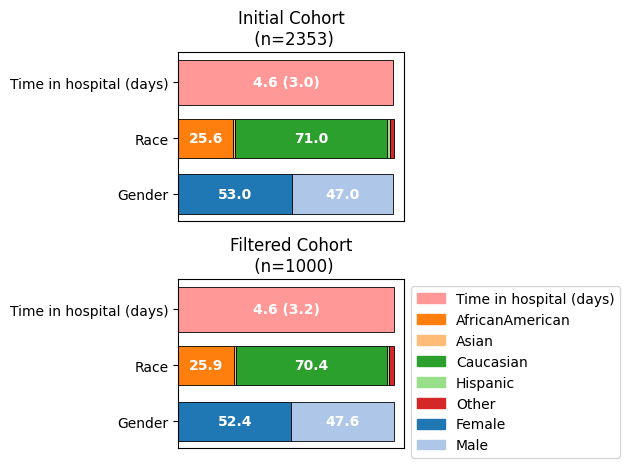
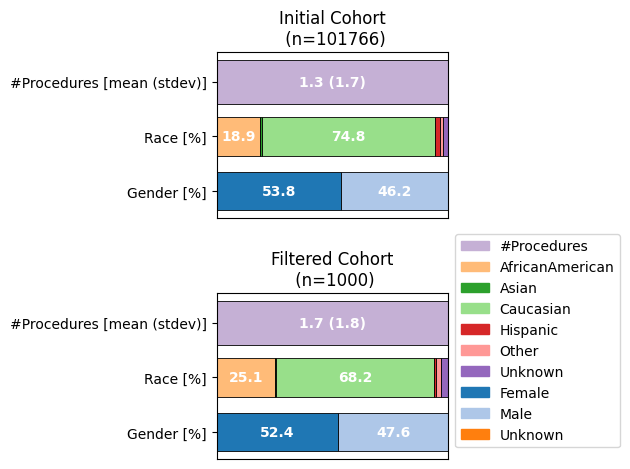
update use of diabetes in docstrings

diff --git a/ehrapy/tools/cohort_tracking/_cohort_tracker.py b/ehrapy/tools/cohort_tracking/_cohort_tracker.py
@@ -188,7 +188,9 @@ class CohortTracker:
 
         Examples:
                 >>> import ehrapy as ep
-                >>> adata = ep.dt.diabetes_130(columns_obs_only=["gender", "race", "time_in_hospital_days"])
+                >>> adata = ep.dt.diabetes_130_fairlearn(
+                >>>     columns_obs_only=["gender", "race", "num_procedures"]
+                >>> )
                 >>> cohort_tracker = ep.tl.CohortTracker(adata, categorical=["gender", "race"])
                 >>> cohort_tracker(adata, "Initial Cohort")
                 >>> adata = adata[:1000]
@@ -197,17 +199,16 @@ class CohortTracker:
                 >>>     subfigure_title=True,
                 >>>     color_palette="tab20",
                 >>>     yticks_labels={
-                >>>         "time_in_hospital_days": "Time in hospital (days)",
-                >>>         "race": "Race",
-                >>>         "gender": "Gender",
+                >>>         "race": "Race [%]",
+                >>>         "gender": "Gender [%]",
+                >>>         "num_procedures": "#Procedures [mean (stdev)]",
                 >>>     },
                 >>>     legend_labels={
-                >>>         "time_in_hospital_days": "Time in hospital (days)",
-                >>>         0.0: "Female",
-                >>>         1.0: "Male",
+                >>>         "Unknown/Invalid": "Unknown",
+                >>>         "num_procedures": "#Procedures",
                 >>>     },
+                >>>     legend_kwargs={"bbox_to_anchor": (1, 1.4)},
                 >>> )
-
 
             .. image:: /_static/docstring_previews/cohort_tracking.png
         """
@@ -382,15 +383,18 @@ class CohortTracker:
 
         Examples:
                 >>> import ehrapy as ep
-                >>> adata = ep.dt.diabetes_130(columns_obs_only=["gender", "race", "weight", "age"])
+                >>> adata = ep.dt.diabetes_130_fairlearn(columns_obs_only="gender", "race")
                 >>> cohort_tracker = ep.tl.CohortTracker(adata)
                 >>> cohort_tracker(adata, label="Initial Cohort")
                 >>> adata = adata[:1000]
                 >>> cohort_tracker(adata, label="Reduced Cohort", operations_done="filtered to first 1000 entries")
                 >>> adata = adata[:500]
-                >>> cohort_tracker(adata, label="Further reduced Cohort", operations_done="filtered to first 500 entries")
+                >>> cohort_tracker(
+                ...     adata,
+                ...     label="Further reduced Cohort",
+                ...     operations_done="filtered to first 500 entries",
+                ... )
                 >>> cohort_tracker.plot_flowchart(title="Flowchart of Data Processing", show=True)
-
 
             .. image:: /_static/docstring_previews/flowchart.png
         """
